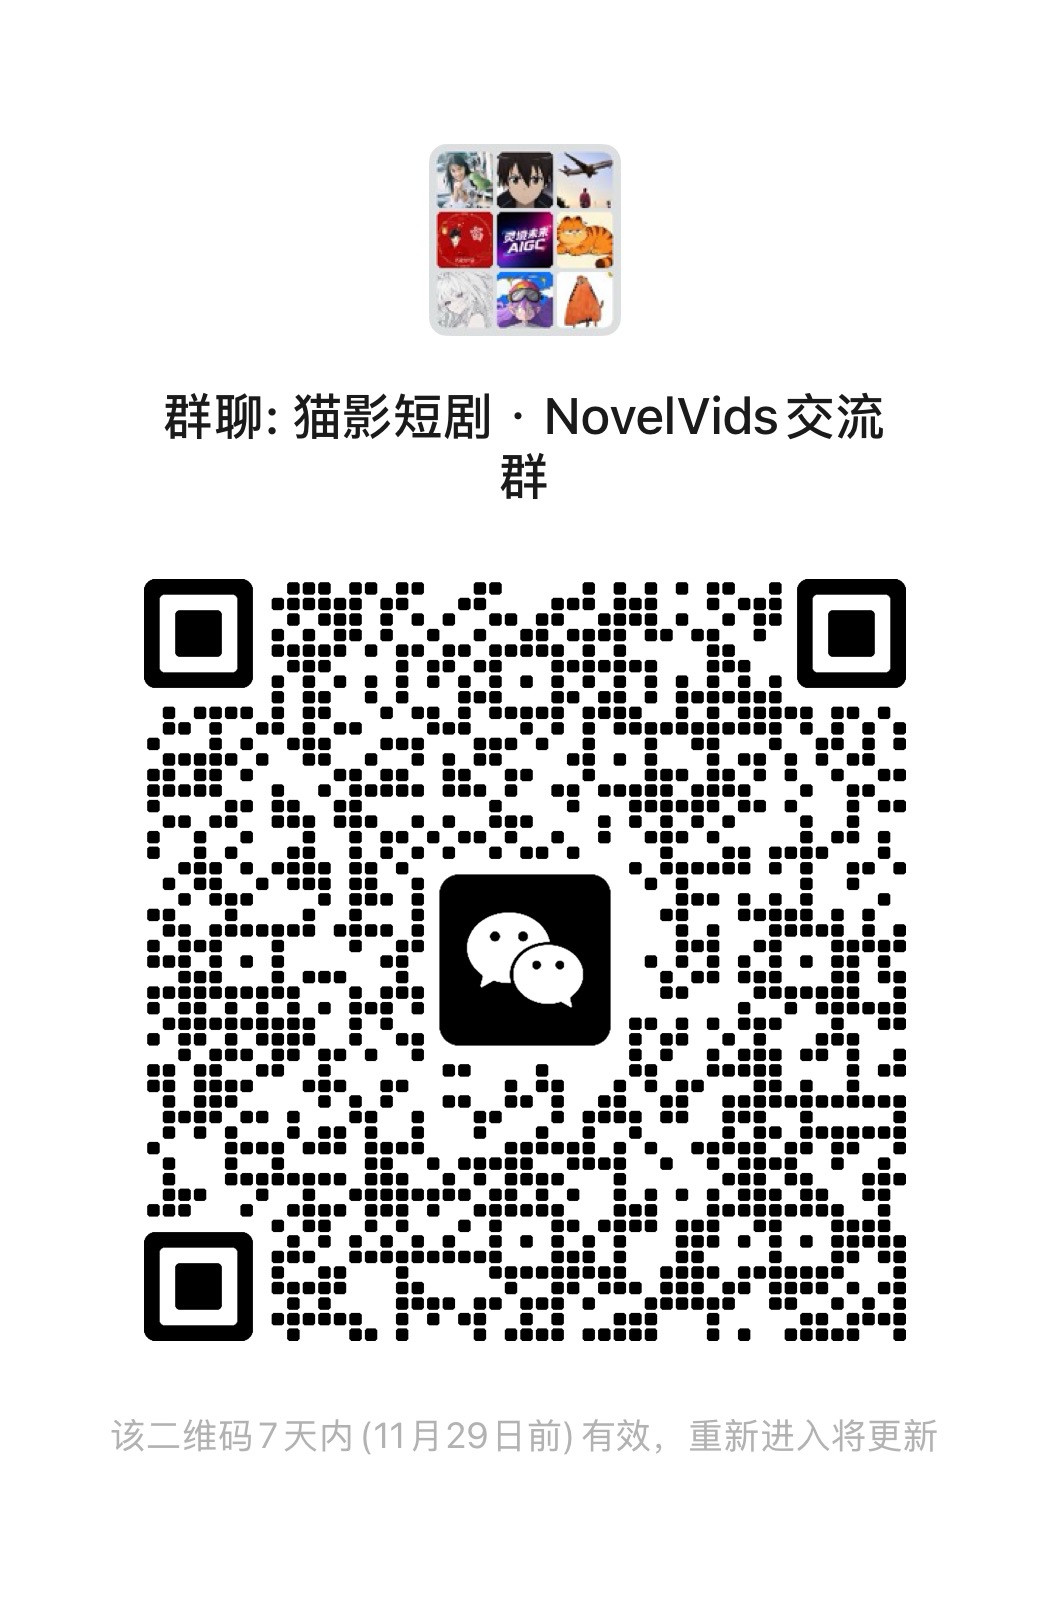
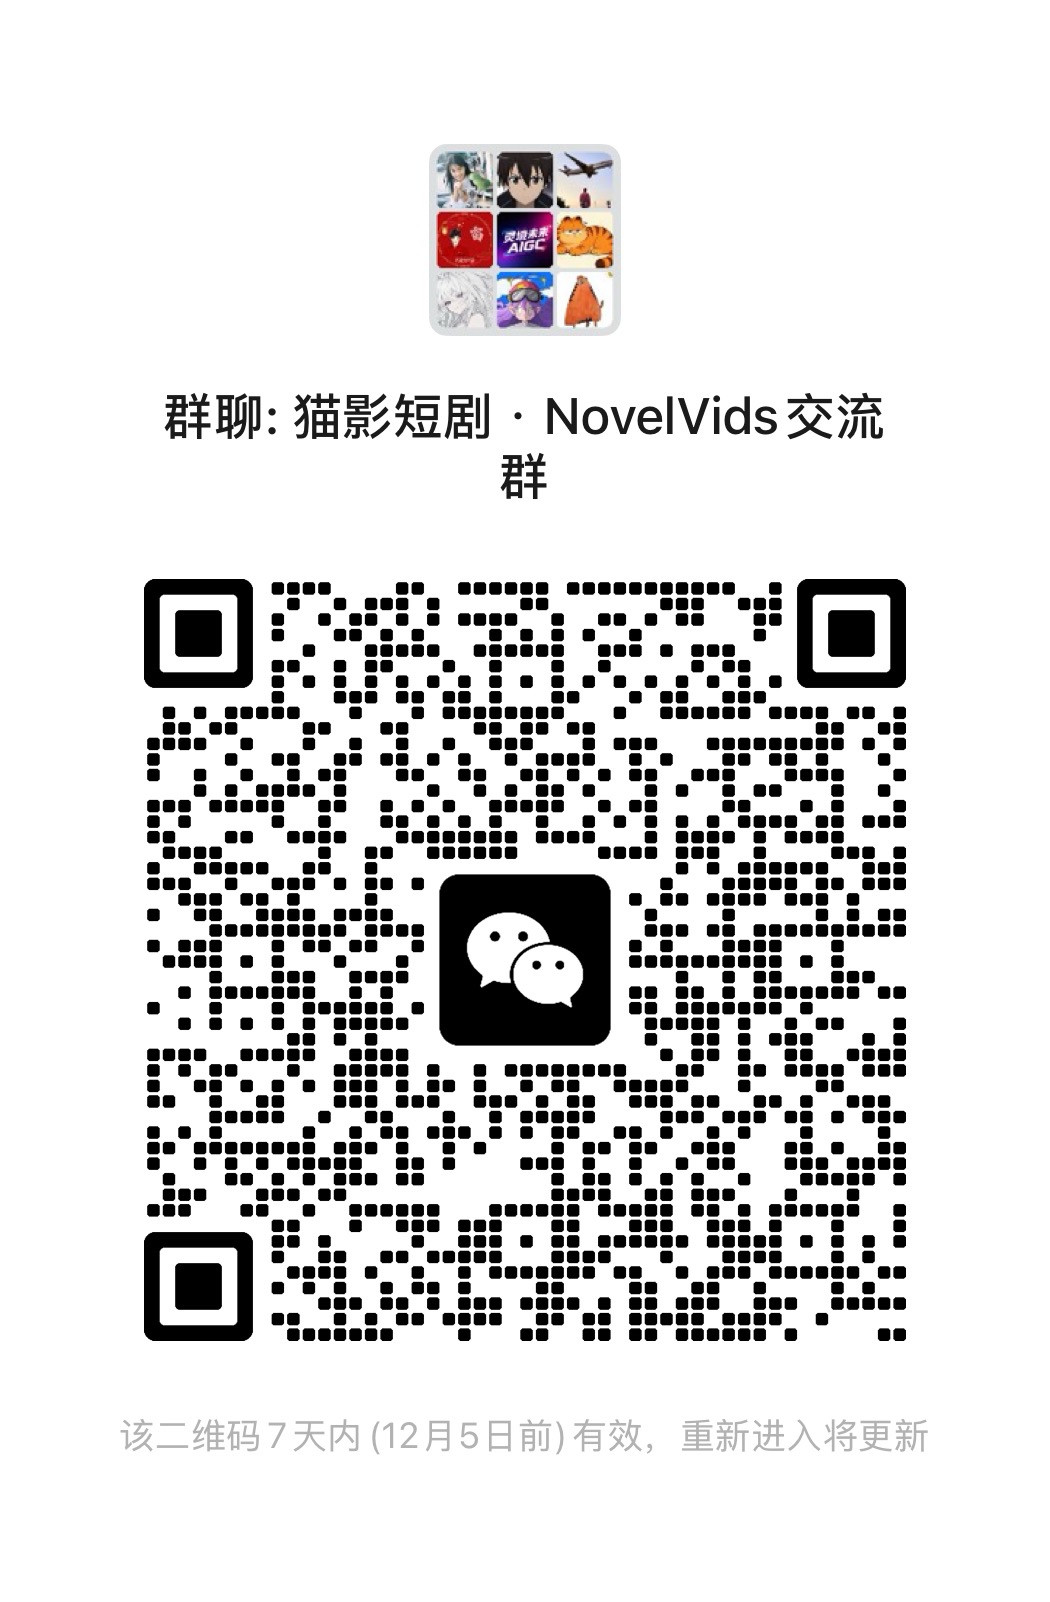
docs: refresh WeChat group QR through December 4

Changed region(s): [[0.1219, 0.3433, 0.8838, 0.8427], [0.0914, 0.8739, 0.6095, 0.9051], [0.64, 0.8739, 0.8838, 0.9051]]

diff --git a/README.en.md b/README.en.md
@@ -54,11 +54,11 @@ For an existing standard SQLite Compose installation, run `sh scripts/update/ins
 Join the **NovelVids · 猫影短剧 WeChat group** to discuss AI animation, short dramas, model workflows and open-source deployment.
 
 <p align="center">
-  <a href="docs/images/wechat-group-qr.jpg"><img src="docs/images/wechat-group-qr.jpg" width="320" alt="NovelVids WeChat group QR code, valid before November 29, 2026"></a>
+  <a href="docs/images/wechat-group-qr.jpg"><img src="docs/images/wechat-group-qr.jpg" width="320" alt="NovelVids WeChat group QR code, valid before December 5, 2026"></a>
 </p>
 
 <p align="center">
-  Scan with WeChat · <strong>Updated November 22, 2026; valid before November 29.</strong><br>
+  Scan with WeChat · <strong>Updated November 28, 2026; valid before December 5.</strong><br>
   Group QR codes expire after 7 days. If this one has expired, check the latest version of the repository home page.
 </p>
 

diff --git a/README.md b/README.md
@@ -56,11 +56,11 @@
 欢迎加入 **猫影短剧 · NovelVids 微信交流群**，交流 AI 漫剧、短剧制作、模型使用与开源部署。
 
 <p align="center">
-  <a href="docs/images/wechat-group-qr.jpg"><img src="docs/images/wechat-group-qr.jpg" width="320" alt="猫影短剧 NovelVids 微信交流群二维码，2026 年 11 月 29 日前有效"></a>
+  <a href="docs/images/wechat-group-qr.jpg"><img src="docs/images/wechat-group-qr.jpg" width="320" alt="猫影短剧 NovelVids 微信交流群二维码，2026 年 12 月 5 日前有效"></a>
 </p>
 
 <p align="center">
-  微信扫码入群 · <strong>当前二维码于 2026 年 11 月 22 日更新，11 月 29 日前有效。</strong><br>
+  微信扫码入群 · <strong>当前二维码于 2026 年 11 月 28 日更新，12 月 5 日前有效。</strong><br>
   二维码有效期为 7 天；如已失效，请查看仓库首页的最新版本。
 </p>
 
